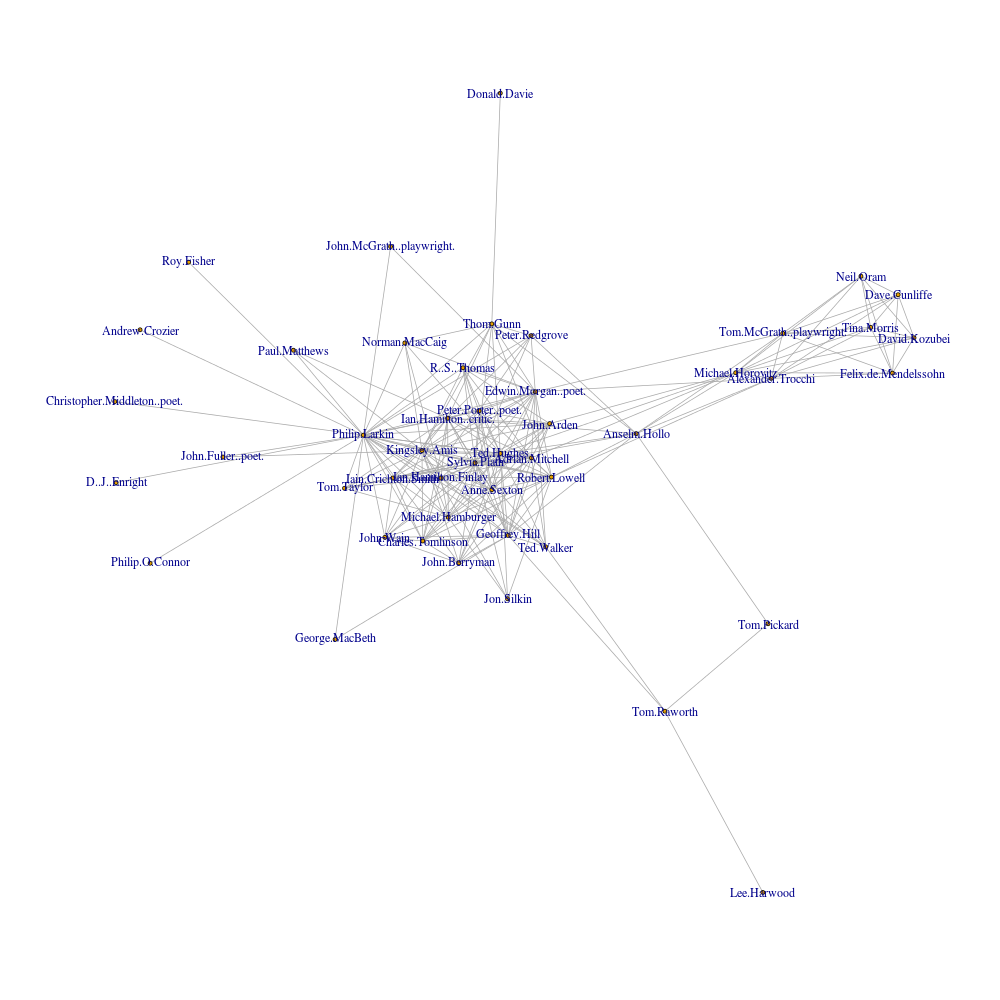
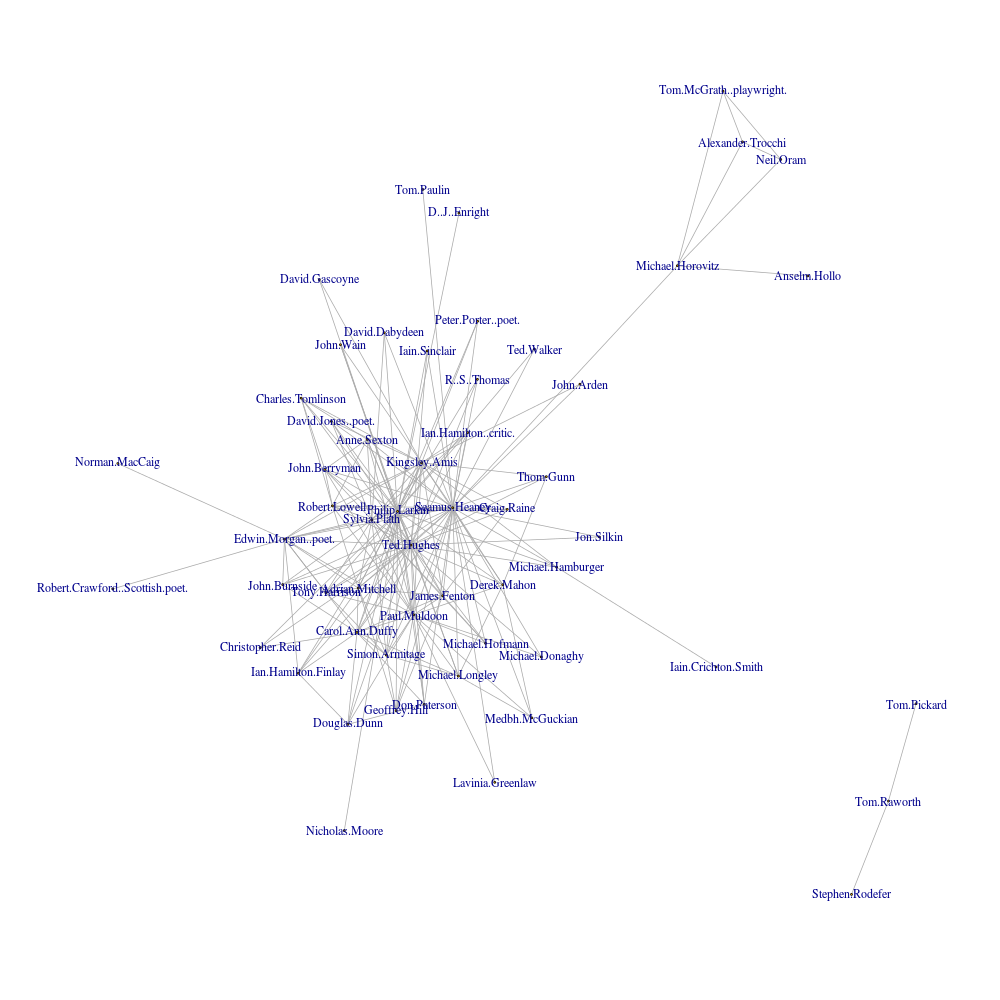
updated example output

diff --git a/README.md b/README.md
@@ -4,7 +4,7 @@ Tools for basic social network analysis, intended to be applied to literary cote
 
 ![Example output](example.png)
 
-Poets from *The New Poetry* (1966 edn., ed. by Al Alvarez) and *Children of Albion* (1969, ed. by Michael Horovitz) with at least eight shared links between their Wikipedia articles.
+Poets from *The New Poetry* (1966 edn., ed. by Al Alvarez), *Children of Albion* (1969, ed. by Michael Horovitz), *A Various Art* (1987, ed. by Andrew Crozier and Tim Longville), *Conductors of Chaos* (1996, ed. by Iain Sinclair) and the 1994 'New Generation Poets' list with at least ten shared links between their Wikipedia articles.
 
 ## wiki.py
 
